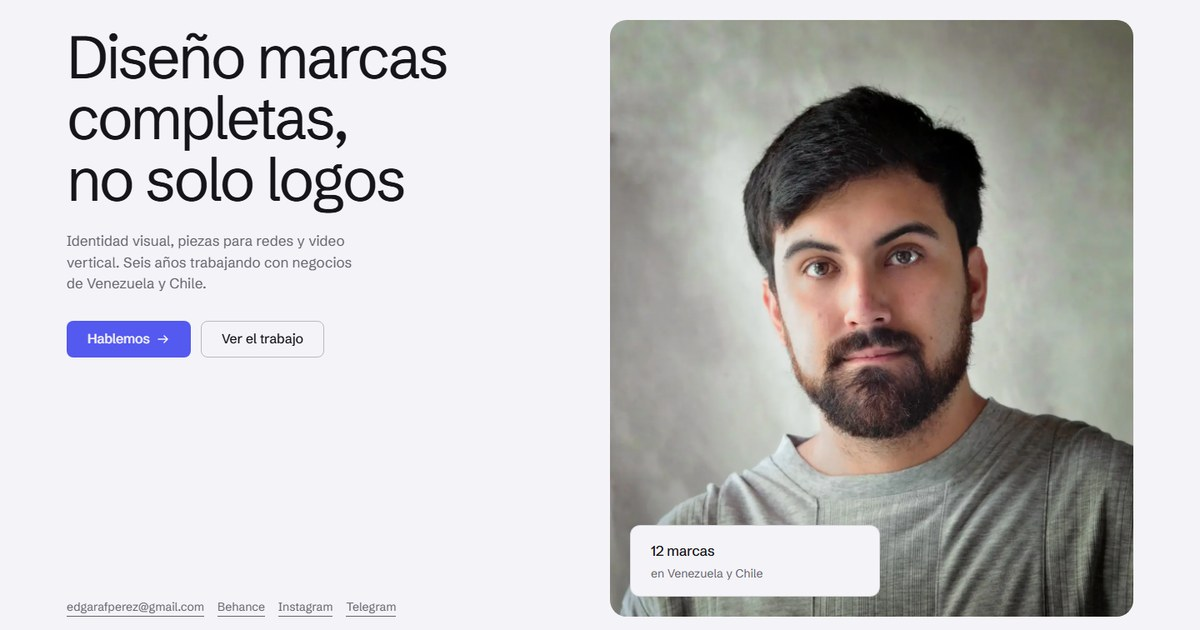
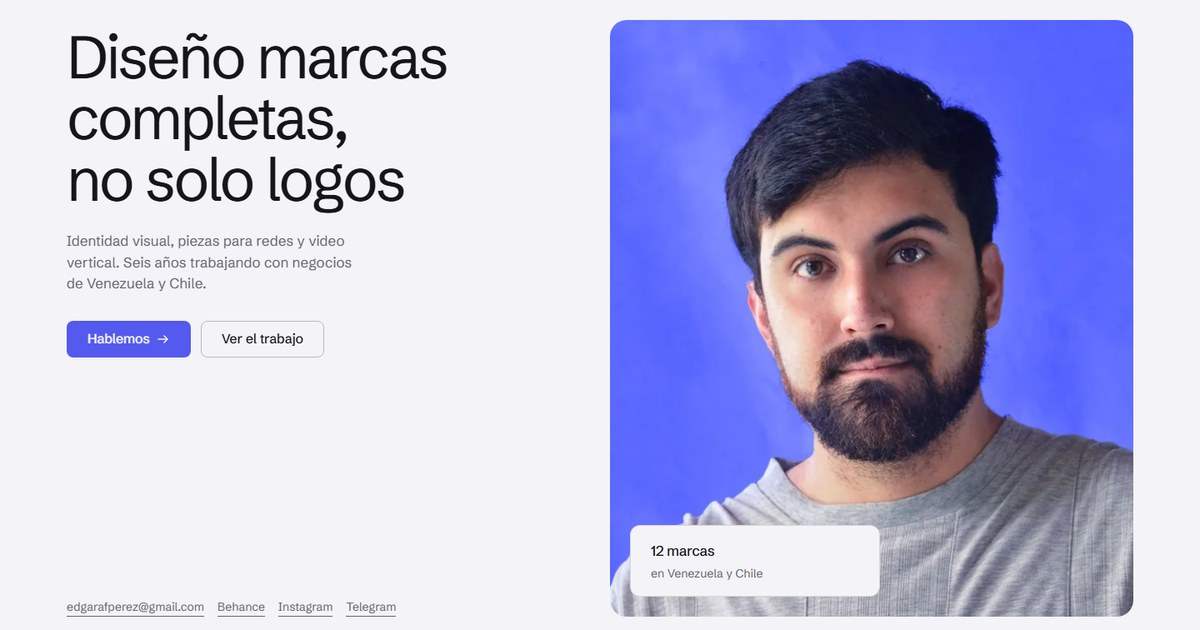
Hero: restaura la foto reciente (fondo violeta) en lugar del retrato antiguo
El retrato de fondo gris que estaba en uso era una sesion anterior. Vuelve la
foto que usaba la web publicada, ahora a 1080 px y con variante de 720 px para
movil. Se regeneran tambien la imagen de Open Graph.

diff --git a/index.html b/index.html
@@ -94,7 +94,7 @@
       </div>
 
       <div class="hero__media">
-        <img src="images/retrato.webp" srcset="images/retrato-720.webp 720w, images/retrato.webp 1280w" sizes="(max-width: 767px) 342px, 628px" alt="Edgar Fernández, diseñador gráfico" width="1280" height="1754">
+        <img src="images/retrato.webp" srcset="images/retrato-720.webp 720w, images/retrato.webp 1080w" sizes="(max-width: 767px) 342px, 628px" alt="Edgar Fernández, diseñador gráfico" width="1080" height="1080">
         <div class="hero__fact">
           <strong>12 marcas</strong>
           <span>en Venezuela y Chile</span>
